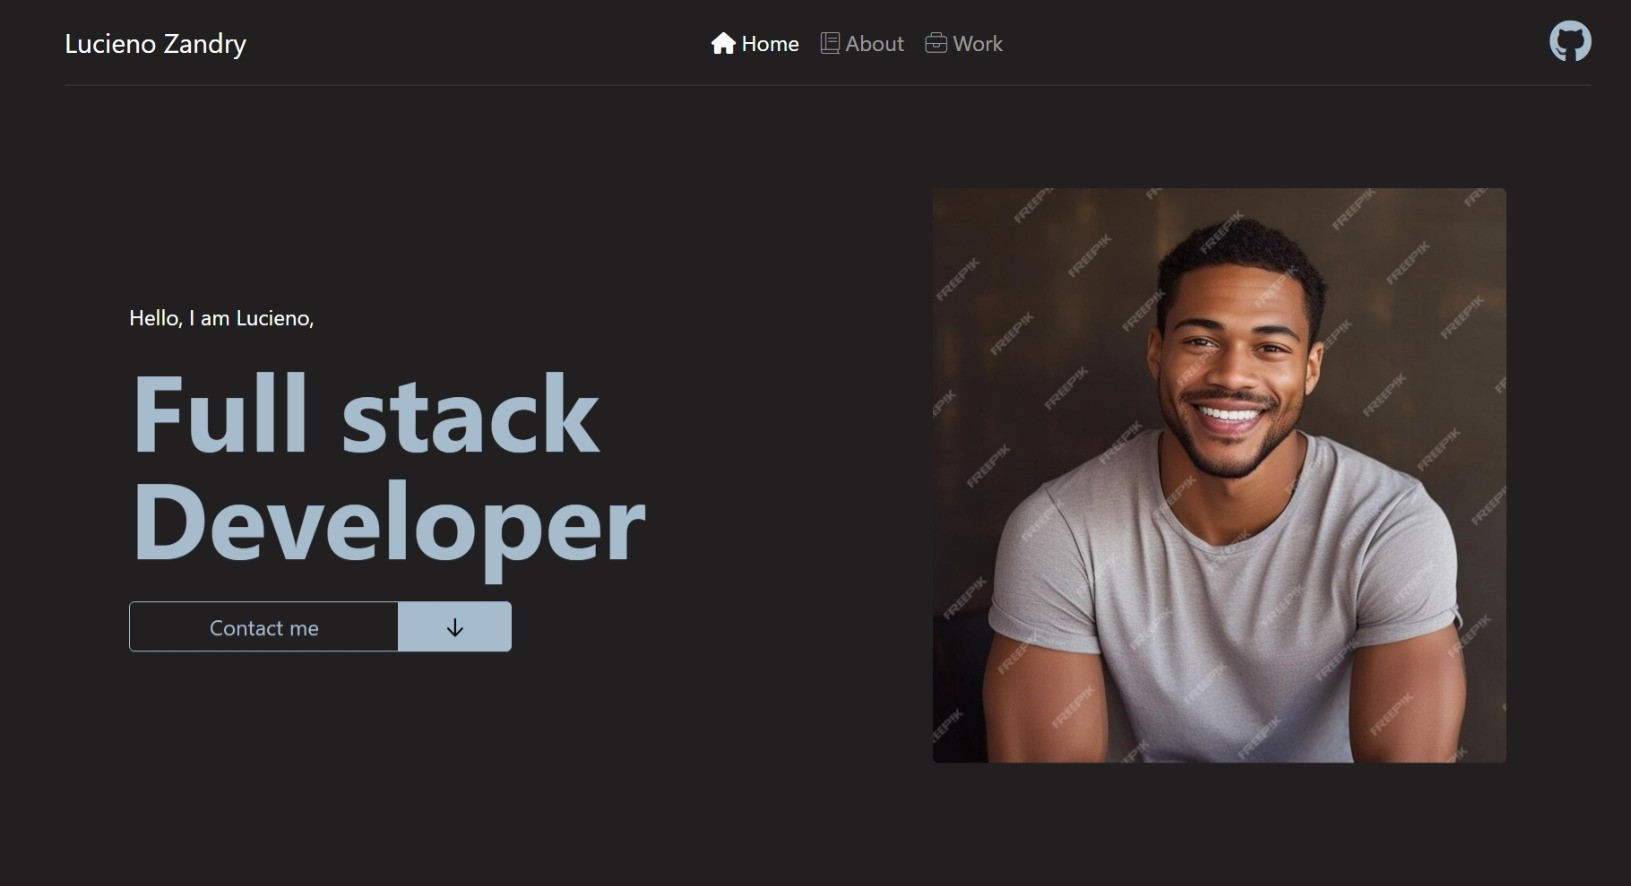
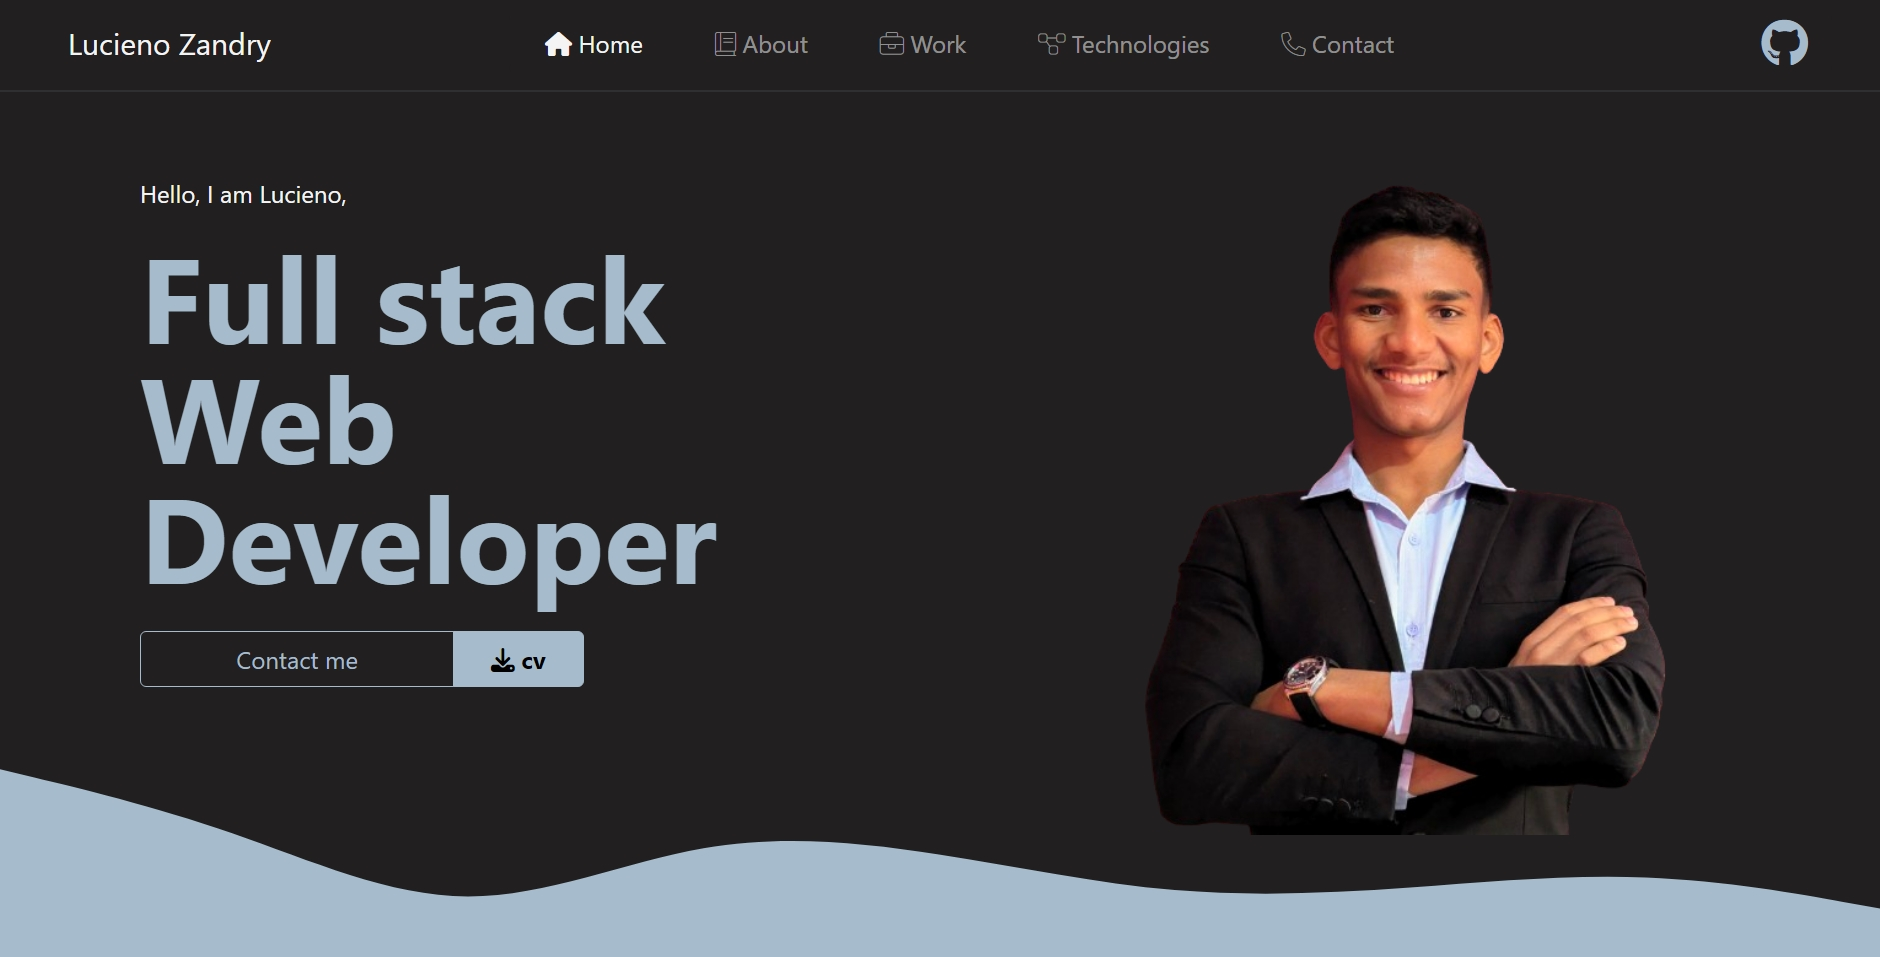
Changed the photo to mine

diff --git a/src/App/Homepage/Header/Header.scss b/src/App/Homepage/Header/Header.scss
@@ -8,7 +8,7 @@
     img{
         width: 100%;
         aspect-ratio: 1;
-        object-fit: cover;
+        object-fit: contain;
         object-position: center;
     }
 
